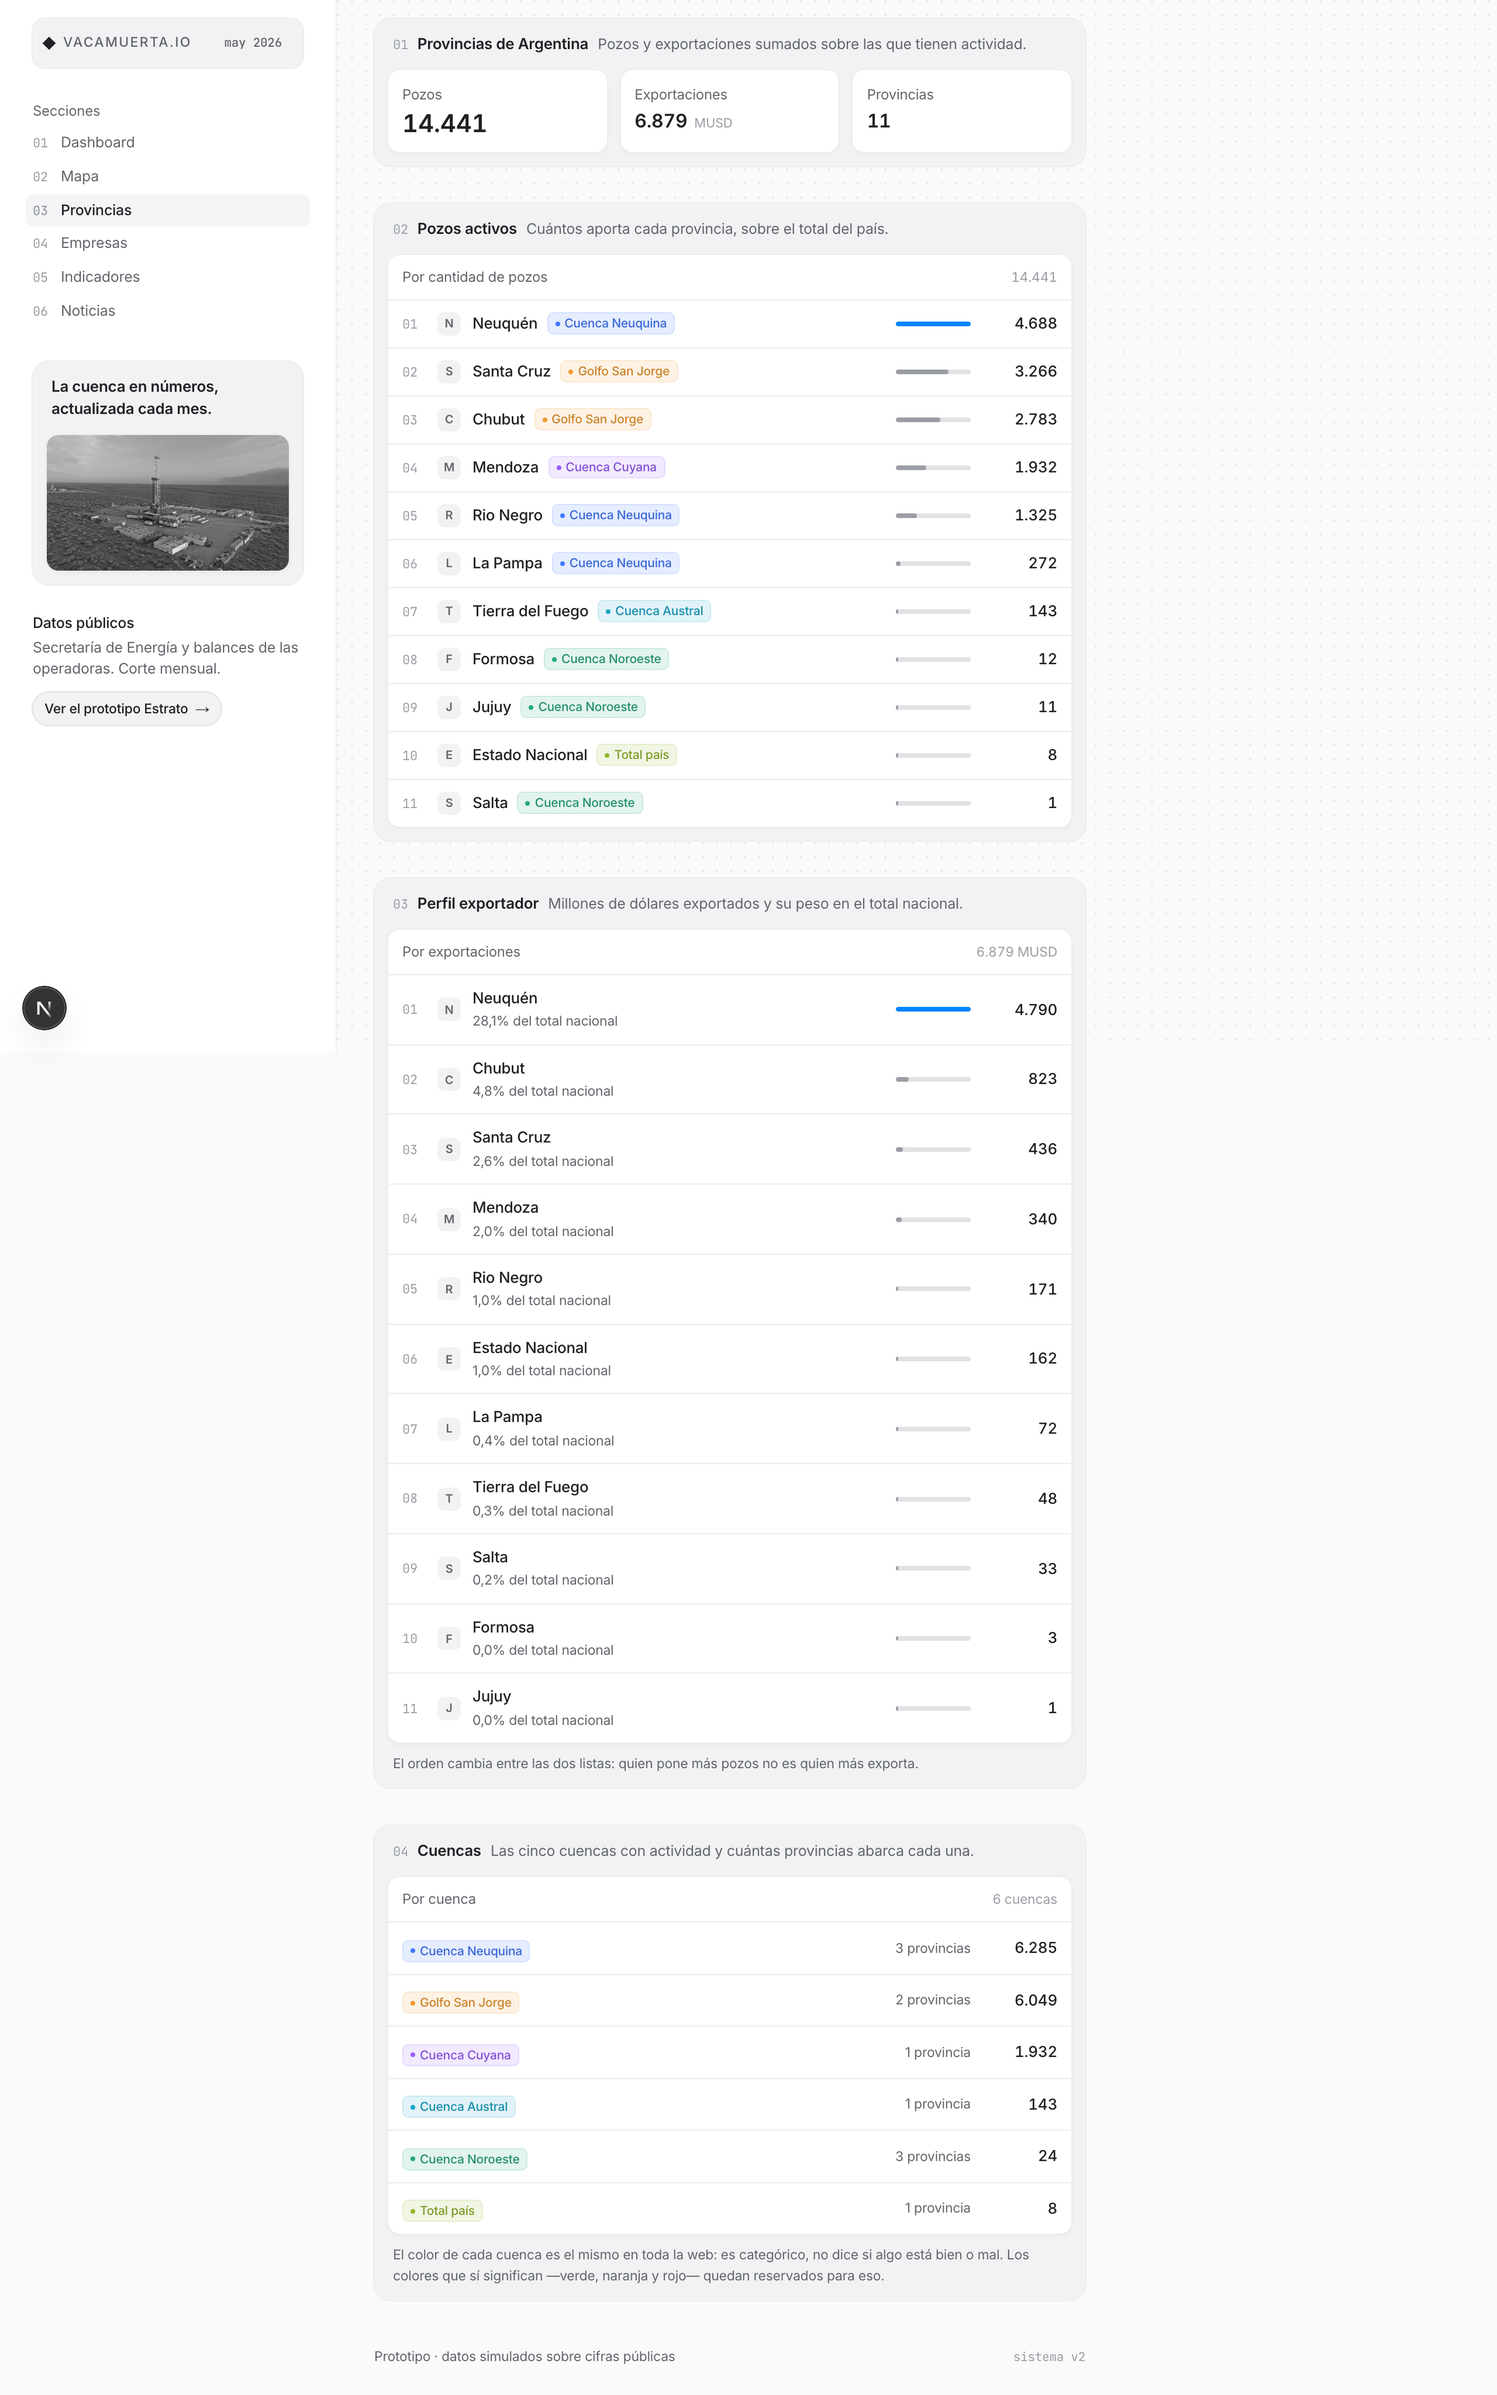
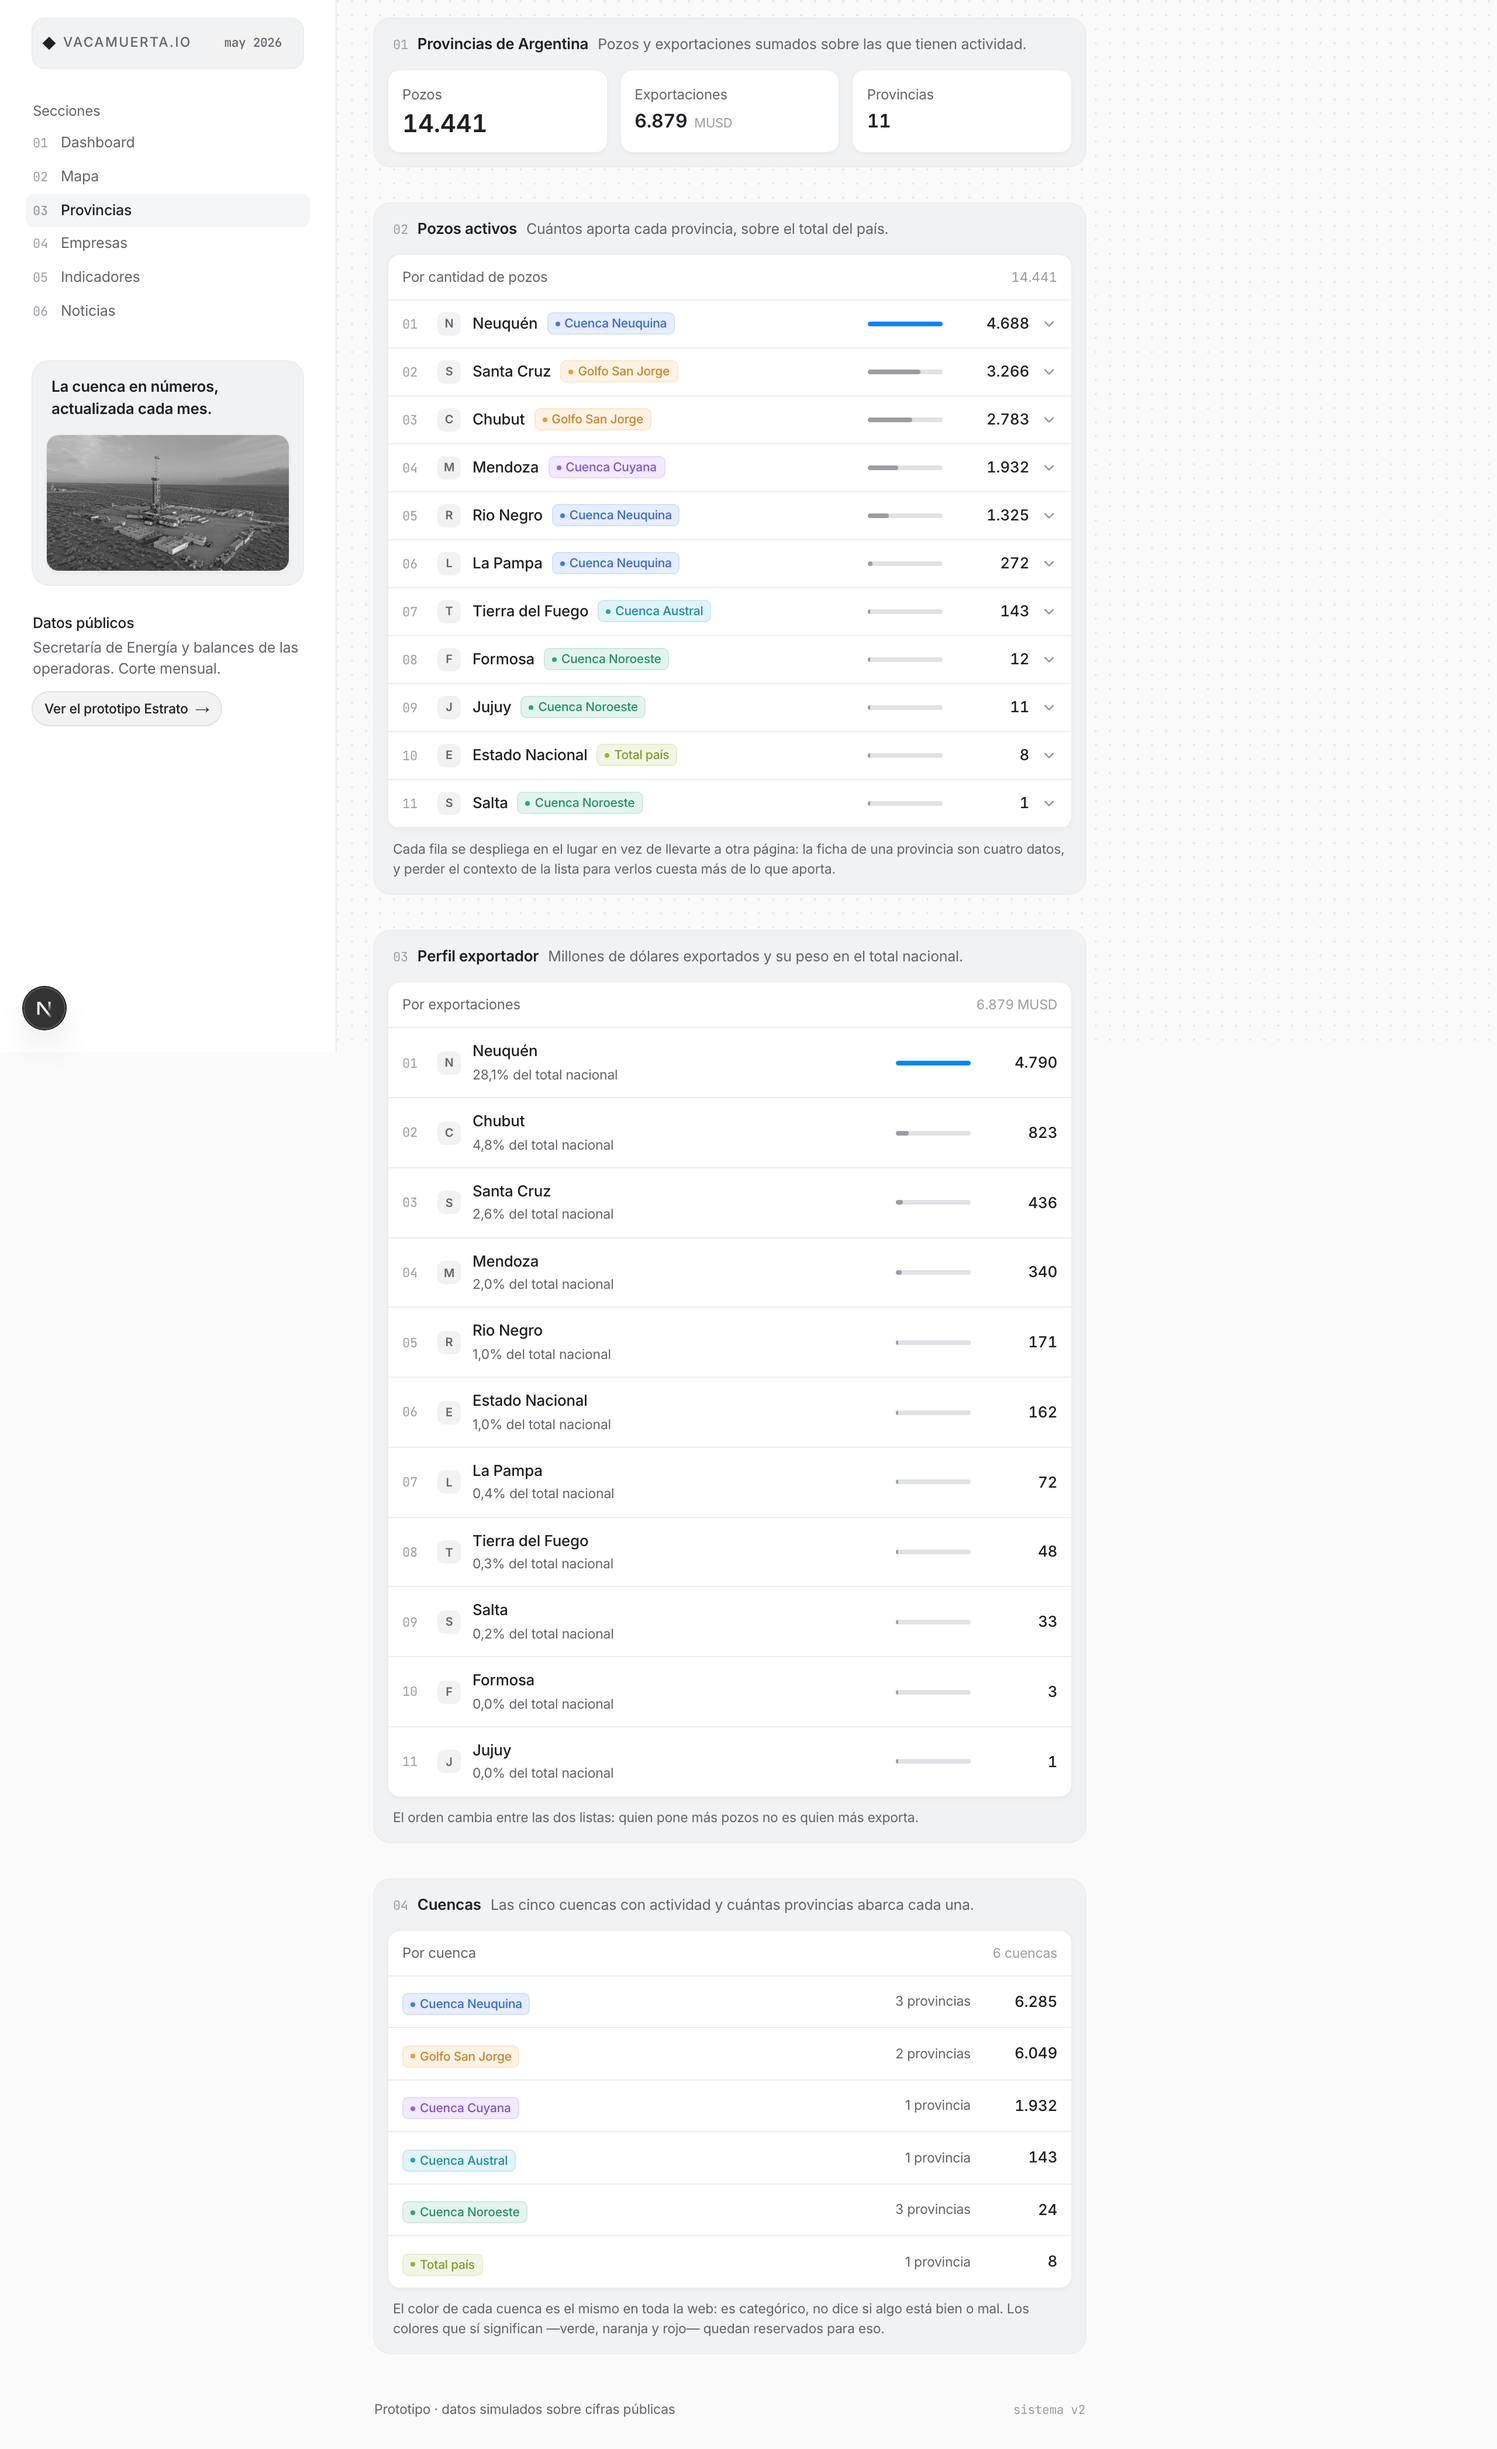
feat(ui-prototype): la fila de provincia se despliega en el lugar
En vez de llevar a una página dedicada, cada provincia abre su ficha ahí
mismo. La ficha de una provincia son cuatro datos: perder el contexto de la
lista para verlos cuesta más de lo que aporta, y volver obliga a rehacer el
scroll.

El mecanismo NO es inventado: es el medido de la sección "Thinking" de la
referencia, que es su primitiva de traza expandible.

  <div class="grid transition-[grid-template-rows,opacity] duration-400"
       style="grid-template-rows: 0fr; opacity: 0">
    <div style="overflow:hidden"> … </div>
  </div>

El truco del 0fr → 1fr anima hacia una altura que no hay que conocer de
antemano, cosa que un max-height no puede sin inventar un número. Y el chevron
—14px, trazo 2,2, el mismo de la referencia— rota en 300ms, cien menos que el
panel: llega antes, y por eso el gesto se siente responder al clic en vez de
arrastrarse.

Adentro va lo que el sitio muestra en la página de provincia, con piezas del
sistema: la descripción, tres lecturas en cards con su cuerpo de 12px, y las
empresas que operan con su pastilla de inicial.

Verificado en el navegador: cerrada mide 0px con opacidad 0 —así no queda
contenido alcanzable por teclado detrás de un alto cero—, abierta 190px con
aria-expanded en true y el chevron rotado 180°.

Un tropiezo del camino: pasaba una función de resolución de nombres del server
component al cliente y eso no cruza el borde. Los nombres se resuelven antes.

diff --git a/apps/ui-prototype/src/app/v2/provincias/FilaProvincia.tsx b/apps/ui-prototype/src/app/v2/provincias/FilaProvincia.tsx
@@ -1,0 +1,182 @@
+'use client'
+
+import { useId, useState } from 'react'
+import { Marca, Tag } from '../_ui/kit'
+import { formatDecimal, formatInteger } from '@/lib/format'
+import type { Province } from '@/fixtures/provinces'
+
+/* Fila de provincia que se despliega en el lugar, en vez de navegar a una
+   página dedicada.
+
+   El mecanismo es el MEDIDO de la sección "Thinking" de la referencia, que es
+   su primitiva de traza expandible:
+
+     <div class="grid transition-[grid-template-rows,opacity] duration-400"
+          style="grid-template-rows: 0fr; opacity: 0">
+       <div style="overflow:hidden"> … </div>
+     </div>
+
+   El truco del 0fr → 1fr sirve porque anima a una altura que no hay que
+   conocer de antemano, cosa que un max-height no puede hacer sin inventar un
+   número. El chevron rota 180° en 300ms, cien menos que el panel: llega antes
+   y por eso el gesto se siente responder al clic y no arrastrarse.
+
+   El contenido de adentro es el de la página de provincia del sitio, servido
+   con las piezas del sistema: la descripción, tres lecturas y las operadoras
+   que trabajan ahí. */
+
+export function FilaProvincia({
+  p,
+  n,
+  pct,
+  lider,
+  tagColor,
+  operadoras,
+}: {
+  p: Province
+  n: number
+  /** 0..1 sobre el máximo de la lista */
+  pct: number
+  lider: boolean
+  tagColor: string
+  /** nombres ya resueltos: una función no cruza de server a client component */
+  operadoras: string[]
+}) {
+  const [abierta, setAbierta] = useState(false)
+  const id = useId()
+
+  return (
+    <div style={{ borderBottom: '1px solid var(--line)' }}>
+      <button
+        type="button"
+        aria-expanded={abierta}
+        aria-controls={id}
+        onClick={() => setAbierta((v) => !v)}
+        className="s-fila s-fila-hover w-full text-left"
+        style={{ border: 0, borderBottom: 0, background: 'transparent', cursor: 'pointer' }}
+      >
+        <span className="s-mono w-5 shrink-0 text-[11px]" style={{ color: 'var(--ink-3)' }}>
+          {String(n).padStart(2, '0')}
+        </span>
+        <Marca nombre={p.name} />
+        <span className="flex min-w-0 flex-1 items-center gap-2">
+          <span className="s-cuerpo min-w-0 truncate font-medium">{p.name}</span>
+          <Tag color={tagColor}>{p.basin}</Tag>
+        </span>
+        <span
+          className={`s-barra hidden w-16 shrink-0 sm:block ${lider ? 's-barra--lider' : ''}`}
+          aria-hidden
+        >
+          <i style={{ width: `${Math.max(3, pct * 100)}%` }} />
+        </span>
+        <span className="s-num w-16 shrink-0 text-right text-[13px] font-medium">
+          {formatInteger(p.wells)}
+        </span>
+        {/* chevron: 14px con trazo 2,2 — el mismo de la traza expandible de la
+            referencia. Rota en 300ms, cien menos que el panel. */}
+        <svg
+          aria-hidden
+          width="14"
+          height="14"
+          viewBox="0 0 24 24"
+          fill="none"
+          stroke="var(--ink-3)"
+          strokeWidth="2.2"
+          strokeLinecap="round"
+          strokeLinejoin="round"
+          className="shrink-0"
+          style={{
+            transform: abierta ? 'rotate(180deg)' : 'rotate(0)',
+            transition: 'transform 300ms var(--ease-in-out)',
+          }}
+        >
+          <path d="M6 9l6 6 6-6" />
+        </svg>
+      </button>
+
+      <div
+        id={id}
+        className="grid"
+        style={{
+          gridTemplateRows: abierta ? '1fr' : '0fr',
+          opacity: abierta ? 1 : 0,
+          transition: 'grid-template-rows 400ms var(--ease-in-out), opacity 400ms var(--ease-in-out)',
+        }}
+      >
+        <div style={{ overflow: 'hidden' }}>
+          <div style={{ padding: '0 12px 12px 12px' }}>
+            <p className="s-desc m-0">{p.blurb}</p>
+
+            <div className="mt-2.5 grid gap-2 sm:grid-cols-3">
+              <Lectura rotulo="Pozos activos" valor={formatInteger(p.wells)} />
+              <Lectura
+                rotulo="Exportaciones"
+                valor={formatInteger(p.exportsMUSD)}
+                unidad="MUSD"
+              />
+              <Lectura
+                rotulo="Part. exportadora"
+                valor={`${formatDecimal(p.expSharePct, 1)}%`}
+                nota="del total nacional"
+              />
+            </div>
+
+            {operadoras.length > 0 && (
+              <>
+                <p className="s-micro m-0 mt-3 mb-1.5" style={{ color: 'var(--ink-2)' }}>
+                  Empresas que operan
+                </p>
+                <div className="flex flex-wrap gap-1.5">
+                  {operadoras.map((nombre) => (
+                    <span
+                      key={nombre}
+                      className="s-micro flex items-center gap-1.5 rounded-[6px] px-2 py-1"
+                      style={{ background: 'var(--field)', color: 'var(--ink-2)' }}
+                    >
+                      <Marca nombre={nombre} />
+                      {nombre}
+                    </span>
+                  ))}
+                </div>
+              </>
+            )}
+          </div>
+        </div>
+      </div>
+    </div>
+  )
+}
+
+/** Lectura chica: la card del sistema con su cuerpo de 12px. */
+function Lectura({
+  rotulo,
+  valor,
+  unidad,
+  nota,
+}: {
+  rotulo: string
+  valor: string
+  unidad?: string
+  nota?: string
+}) {
+  return (
+    <div className="s-card">
+      <div style={{ padding: 12 }}>
+        <p className="s-etq m-0">{rotulo}</p>
+        <p className="m-0 mt-1 flex items-baseline gap-1.5">
+          <span className="s-cifra-sm">{valor}</span>
+          {unidad && (
+            <span className="text-[11px]" style={{ color: 'var(--ink-3)' }}>
+              {unidad}
+            </span>
+          )}
+        </p>
+        {nota && (
+          <p className="s-micro m-0 mt-1" style={{ color: 'var(--ink-3)' }}>
+            {nota}
+          </p>
+        )}
+      </div>
+    </div>
+  )
+}

diff --git a/apps/ui-prototype/src/app/v2/provincias/page.tsx b/apps/ui-prototype/src/app/v2/provincias/page.tsx
@@ -1,4 +1,6 @@
 import { Seccion, Card, CardHead, FilaRanking, Dato, Pie, Tag, asignarColores } from '../_ui/kit'
+import { FilaProvincia } from './FilaProvincia'
+import { COMPANIES } from '@/fixtures/companies'
 import { PROVINCES } from '@/fixtures/provinces'
 import { formatCompactAR, formatDecimal, formatInteger } from '@/lib/format'
 
@@ -23,6 +25,8 @@ export default function V2Provincias() {
   /* El color se asigna por posición sobre las cuencas ordenadas por pozos,
      así cada una tiene el suyo y no cambia entre secciones ni pantallas. */
   const colorCuenca = asignarColores(cuencas.map((c) => c.nombre))
+  /* slug de operadora → nombre, para las empresas que operan en cada provincia */
+  const NOMBRES = new Map(COMPANIES.map((c) => [c.slug, c.name]))
 
   return (
     <>
@@ -58,19 +62,22 @@ export default function V2Provincias() {
         <Card>
           <CardHead titulo="Por cantidad de pozos" nota={formatInteger(totalPozos)} />
           {porPozos.map((p, i) => (
-            <FilaRanking
+            <FilaProvincia
               key={p.slug}
+              p={p}
               n={i + 1}
-              nombre={p.name}
-              valor={formatInteger(p.wells)}
               pct={p.wells / maxPozos}
               lider={i === 0}
-              marca
-              tag={p.basin}
-              tagColor={colorCuenca.get(p.basin)}
+              tagColor={colorCuenca.get(p.basin)!}
+              operadoras={(p.operators ?? []).map((s) => NOMBRES.get(s) ?? s)}
             />
           ))}
         </Card>
+        <Pie>
+          Cada fila se despliega en el lugar en vez de llevarte a otra página: la ficha de
+          una provincia son cuatro datos, y perder el contexto de la lista para verlos
+          cuesta más de lo que aporta.
+        </Pie>
       </Seccion>
 
       <Seccion
